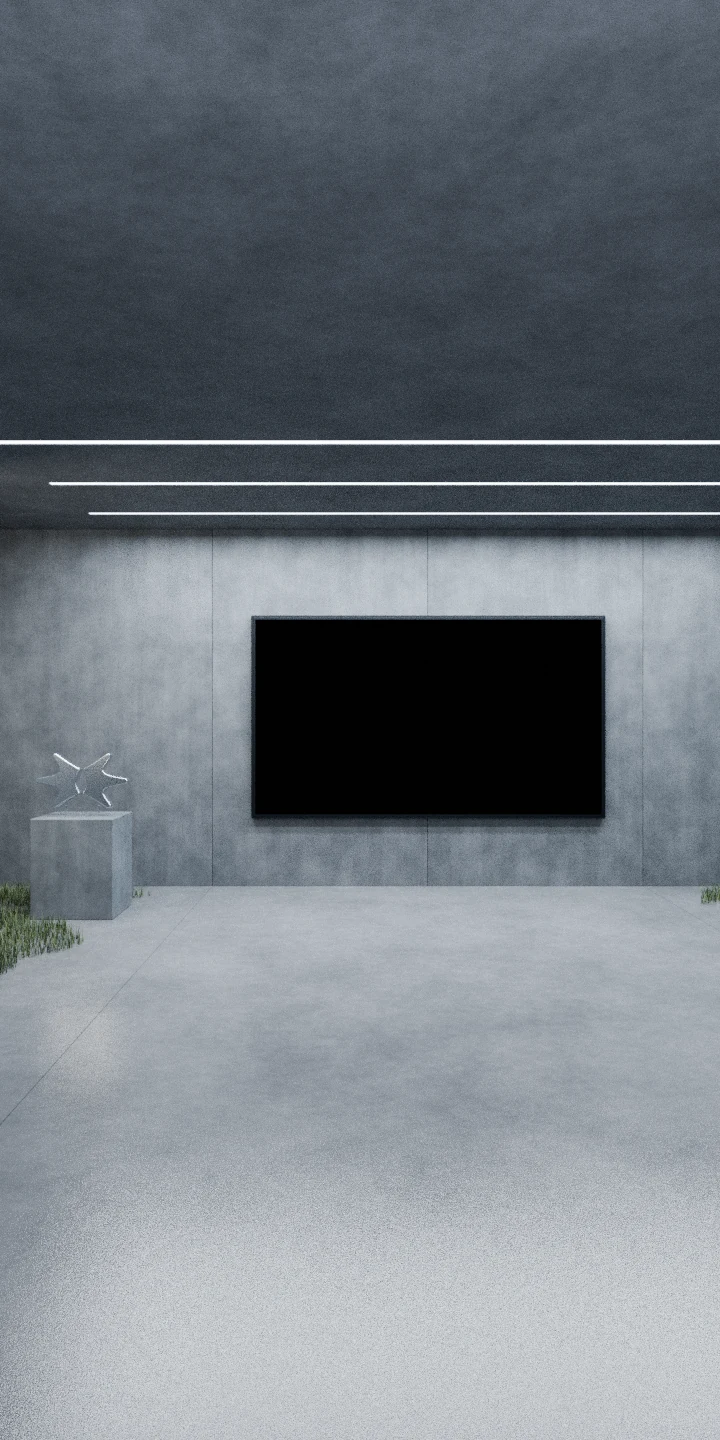
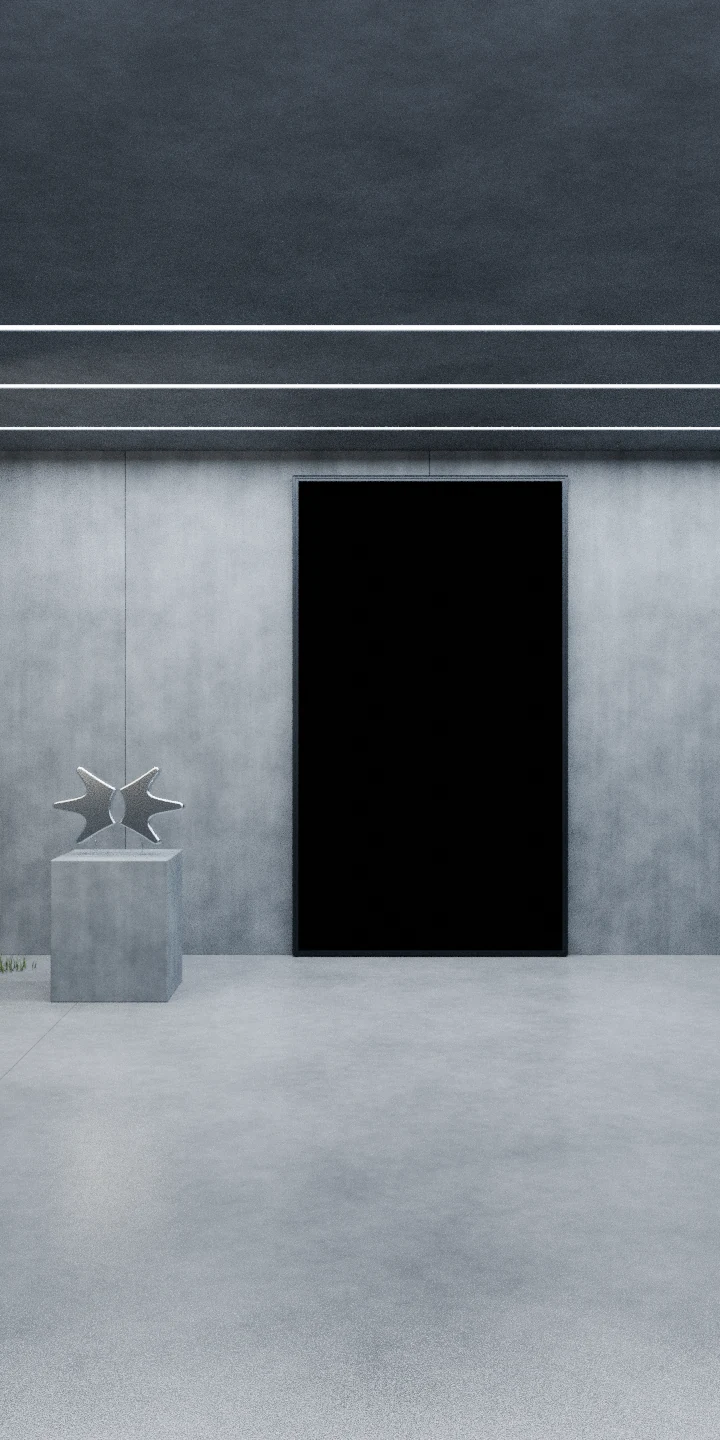
Make mobile cinema TV portrait with continuous camera pullback

diff --git a/dist/site.js b/dist/site.js
@@ -137,11 +137,11 @@ function sampleCurve(keys,p,column=1){
 function roomProgress(p){return 1-(sampleCurve(roomKeys,p)-1)/2.4}
 function room(p,w,h){
  const mobile=w<=700;
- const imageW=mobile?Math.max(w/.876,h/2):Math.max(w,h*16/9),imageH=imageW*(mobile?2:9/16);
- const screen=mobile?{x:.3547390103340149,y:.43023377656936646,w:.48074471950531006,h:.13520944118499756}:{x:.34323543310165405,y:.33822327852249146,w:.3135291337966919,h:.3135290741920471};
- const fullScale=mobile?1.02:Math.max(w/(imageW*screen.w),h/(imageH*screen.h))*1.068;
- const t=roomProgress(p);
- return {scale:lerp(fullScale,1,t),imageW,imageH,originX:mobile?.438:screen.x+screen.w/2,originY:mobile?.5:screen.y+screen.h/2,hold:p>=.72,screen};
+ const imageW=mobile?Math.max(w/.88,h/2):Math.max(w,h*16/9),imageH=imageW*(mobile?2:9/16);
+ const screen=mobile?{x:0.4144749641418457,y:0.33404088020324707,w:0.36653584241867065,h:0.32580962777137756}:{x:.34323543310165405,y:.33822327852249146,w:.3135291337966919,h:.3135290741920471};
+ const fullScale=mobile?1.8:Math.max(w/(imageW*screen.w),h/(imageH*screen.h))*1.068;
+ const t=mobile?smooth(p):roomProgress(p);
+ return {scale:lerp(fullScale,1,t),imageW,imageH,originX:mobile?lerp(screen.x+screen.w/2,.44,t):screen.x+screen.w/2,originY:mobile?.5:screen.y+screen.h/2,hold:mobile?p>=.98:p>=.72,screen};
 }
 function cards(p,index,h){const center=.5076+index*.1984;const local=(p-center)/.1984;return {x:[-15,19,-12,16][index],y:local*-h*1.3,angle:clamp(local,-1,1)*-15*(index%2?-1:1),opacity:1-clamp((Math.abs(local)-.85)/.35),scale:1-Math.min(.025,Math.abs(local)*.01)}}
 function finale(p,w,h){
@@ -192,7 +192,7 @@ function setupResponsiveMedia(){
  const mobile=matchMedia('(max-width:700px)').matches;
  $$('video[data-portrait-film],video[data-compact-film],video.green-film').forEach(video=>{
   const green=video.classList.contains('green-film');
-  const portrait=mobile&&(video.hasAttribute('data-portrait-film')||green);
+  const portrait=mobile&&(video.hasAttribute('data-portrait-film')||video.hasAttribute('data-compact-film')||green);
   const source=green?(mobile?'assets/green-portrait.mp4':'assets/green-film.mp4'):portrait?'assets/film-portrait.mp4':mobile?'assets/film-compact.mp4':'assets/film.mp4';
   if(video.dataset.source===source)return;
   video.dataset.source=source;video.poster=portrait?(green?'assets/green-portrait-poster.webp':'assets/film-portrait-poster.webp'):'assets/film-poster.webp';

diff --git a/site.js b/site.js
@@ -137,11 +137,11 @@ function sampleCurve(keys,p,column=1){
 function roomProgress(p){return 1-(sampleCurve(roomKeys,p)-1)/2.4}
 function room(p,w,h){
  const mobile=w<=700;
- const imageW=mobile?Math.max(w/.876,h/2):Math.max(w,h*16/9),imageH=imageW*(mobile?2:9/16);
- const screen=mobile?{x:.3547390103340149,y:.43023377656936646,w:.48074471950531006,h:.13520944118499756}:{x:.34323543310165405,y:.33822327852249146,w:.3135291337966919,h:.3135290741920471};
- const fullScale=mobile?1.02:Math.max(w/(imageW*screen.w),h/(imageH*screen.h))*1.068;
- const t=roomProgress(p);
- return {scale:lerp(fullScale,1,t),imageW,imageH,originX:mobile?.438:screen.x+screen.w/2,originY:mobile?.5:screen.y+screen.h/2,hold:p>=.72,screen};
+ const imageW=mobile?Math.max(w/.88,h/2):Math.max(w,h*16/9),imageH=imageW*(mobile?2:9/16);
+ const screen=mobile?{x:0.4144749641418457,y:0.33404088020324707,w:0.36653584241867065,h:0.32580962777137756}:{x:.34323543310165405,y:.33822327852249146,w:.3135291337966919,h:.3135290741920471};
+ const fullScale=mobile?1.8:Math.max(w/(imageW*screen.w),h/(imageH*screen.h))*1.068;
+ const t=mobile?smooth(p):roomProgress(p);
+ return {scale:lerp(fullScale,1,t),imageW,imageH,originX:mobile?lerp(screen.x+screen.w/2,.44,t):screen.x+screen.w/2,originY:mobile?.5:screen.y+screen.h/2,hold:mobile?p>=.98:p>=.72,screen};
 }
 function cards(p,index,h){const center=.5076+index*.1984;const local=(p-center)/.1984;return {x:[-15,19,-12,16][index],y:local*-h*1.3,angle:clamp(local,-1,1)*-15*(index%2?-1:1),opacity:1-clamp((Math.abs(local)-.85)/.35),scale:1-Math.min(.025,Math.abs(local)*.01)}}
 function finale(p,w,h){
@@ -192,7 +192,7 @@ function setupResponsiveMedia(){
  const mobile=matchMedia('(max-width:700px)').matches;
  $$('video[data-portrait-film],video[data-compact-film],video.green-film').forEach(video=>{
   const green=video.classList.contains('green-film');
-  const portrait=mobile&&(video.hasAttribute('data-portrait-film')||green);
+  const portrait=mobile&&(video.hasAttribute('data-portrait-film')||video.hasAttribute('data-compact-film')||green);
   const source=green?(mobile?'assets/green-portrait.mp4':'assets/green-film.mp4'):portrait?'assets/film-portrait.mp4':mobile?'assets/film-compact.mp4':'assets/film.mp4';
   if(video.dataset.source===source)return;
   video.dataset.source=source;video.poster=portrait?(green?'assets/green-portrait-poster.webp':'assets/film-portrait-poster.webp'):'assets/film-poster.webp';

diff --git a/motion.js b/motion.js
@@ -17,11 +17,11 @@ function sampleCurve(keys,p,column=1){
 function roomProgress(p){return 1-(sampleCurve(roomKeys,p)-1)/2.4}
 function room(p,w,h){
  const mobile=w<=700;
- const imageW=mobile?Math.max(w/.876,h/2):Math.max(w,h*16/9),imageH=imageW*(mobile?2:9/16);
- const screen=mobile?{x:.3547390103340149,y:.43023377656936646,w:.48074471950531006,h:.13520944118499756}:{x:.34323543310165405,y:.33822327852249146,w:.3135291337966919,h:.3135290741920471};
- const fullScale=mobile?1.02:Math.max(w/(imageW*screen.w),h/(imageH*screen.h))*1.068;
- const t=roomProgress(p);
- return {scale:lerp(fullScale,1,t),imageW,imageH,originX:mobile?.438:screen.x+screen.w/2,originY:mobile?.5:screen.y+screen.h/2,hold:p>=.72,screen};
+ const imageW=mobile?Math.max(w/.88,h/2):Math.max(w,h*16/9),imageH=imageW*(mobile?2:9/16);
+ const screen=mobile?{x:0.4144749641418457,y:0.33404088020324707,w:0.36653584241867065,h:0.32580962777137756}:{x:.34323543310165405,y:.33822327852249146,w:.3135291337966919,h:.3135290741920471};
+ const fullScale=mobile?1.8:Math.max(w/(imageW*screen.w),h/(imageH*screen.h))*1.068;
+ const t=mobile?smooth(p):roomProgress(p);
+ return {scale:lerp(fullScale,1,t),imageW,imageH,originX:mobile?lerp(screen.x+screen.w/2,.44,t):screen.x+screen.w/2,originY:mobile?.5:screen.y+screen.h/2,hold:mobile?p>=.98:p>=.72,screen};
 }
 function cards(p,index,h){const center=.5076+index*.1984;const local=(p-center)/.1984;return {x:[-15,19,-12,16][index],y:local*-h*1.3,angle:clamp(local,-1,1)*-15*(index%2?-1:1),opacity:1-clamp((Math.abs(local)-.85)/.35),scale:1-Math.min(.025,Math.abs(local)*.01)}}
 function finale(p,w,h){

diff --git a/dist/style.css b/dist/style.css
@@ -359,12 +359,12 @@ body{background:var(--paper)}
 
 /* Portrait camera keeps both the screen and the original DELREY sculpture in view. */
 @media(max-width:700px){
- .room-world{width:max(114.15525115vw,50svh);height:max(228.31050230vw,100svh);aspect-ratio:1/2;transform-origin:43.8% 50%;transform:translate(-43.8%,-50%)}
- .room-screen{left:35.4739010334%;top:43.0233776569%;width:48.0744719505%;height:13.5209441185%}
+ .room-world{width:max(113.63636364vw,50svh);height:max(227.27272728vw,100svh);aspect-ratio:1/2;transform-origin:44% 50%;transform:translate(-44%,-50%)}
+ .room-screen{left:41.4474964142%;top:33.4040880203%;width:36.6535842419%;height:32.5809627771%}
  .reduce-motion .room-sticky{height:100svh;top:auto}
- .reduce-motion .room-world{width:max(114.15525115vw,50svh)!important;height:max(228.31050230vw,100svh)!important;transform:translate(-43.8%,-50%)!important}
+ .reduce-motion .room-world{width:max(113.63636364vw,50svh)!important;height:max(227.27272728vw,100svh)!important;transform:translate(-44%,-50%)!important}
 }
 @media(prefers-reduced-motion:reduce) and (max-width:700px){
  .room-sticky{height:100svh;top:auto}
- .room-world{width:max(114.15525115vw,50svh)!important;height:max(228.31050230vw,100svh)!important;transform:translate(-43.8%,-50%)!important}
+ .room-world{width:max(113.63636364vw,50svh)!important;height:max(227.27272728vw,100svh)!important;transform:translate(-44%,-50%)!important}
 }

diff --git a/style.css b/style.css
@@ -359,12 +359,12 @@ body{background:var(--paper)}
 
 /* Portrait camera keeps both the screen and the original DELREY sculpture in view. */
 @media(max-width:700px){
- .room-world{width:max(114.15525115vw,50svh);height:max(228.31050230vw,100svh);aspect-ratio:1/2;transform-origin:43.8% 50%;transform:translate(-43.8%,-50%)}
- .room-screen{left:35.4739010334%;top:43.0233776569%;width:48.0744719505%;height:13.5209441185%}
+ .room-world{width:max(113.63636364vw,50svh);height:max(227.27272728vw,100svh);aspect-ratio:1/2;transform-origin:44% 50%;transform:translate(-44%,-50%)}
+ .room-screen{left:41.4474964142%;top:33.4040880203%;width:36.6535842419%;height:32.5809627771%}
  .reduce-motion .room-sticky{height:100svh;top:auto}
- .reduce-motion .room-world{width:max(114.15525115vw,50svh)!important;height:max(228.31050230vw,100svh)!important;transform:translate(-43.8%,-50%)!important}
+ .reduce-motion .room-world{width:max(113.63636364vw,50svh)!important;height:max(227.27272728vw,100svh)!important;transform:translate(-44%,-50%)!important}
 }
 @media(prefers-reduced-motion:reduce) and (max-width:700px){
  .room-sticky{height:100svh;top:auto}
- .room-world{width:max(114.15525115vw,50svh)!important;height:max(228.31050230vw,100svh)!important;transform:translate(-43.8%,-50%)!important}
+ .room-world{width:max(113.63636364vw,50svh)!important;height:max(227.27272728vw,100svh)!important;transform:translate(-44%,-50%)!important}
 }

diff --git a/app.js b/app.js
@@ -37,7 +37,7 @@ function setupResponsiveMedia(){
  const mobile=matchMedia('(max-width:700px)').matches;
  $$('video[data-portrait-film],video[data-compact-film],video.green-film').forEach(video=>{
   const green=video.classList.contains('green-film');
-  const portrait=mobile&&(video.hasAttribute('data-portrait-film')||green);
+  const portrait=mobile&&(video.hasAttribute('data-portrait-film')||video.hasAttribute('data-compact-film')||green);
   const source=green?(mobile?'assets/green-portrait.mp4':'assets/green-film.mp4'):portrait?'assets/film-portrait.mp4':mobile?'assets/film-compact.mp4':'assets/film.mp4';
   if(video.dataset.source===source)return;
   video.dataset.source=source;video.poster=portrait?(green?'assets/green-portrait-poster.webp':'assets/film-portrait-poster.webp'):'assets/film-poster.webp';

diff --git a/room-source/render_mobile.py b/room-source/render_mobile.py
@@ -5,9 +5,22 @@ from mathutils import Vector
 from bpy_extras.object_utils import world_to_camera_view
 s=bpy.context.scene
 cam=s.camera
-cam.location.x=-1.1
-cam.data.lens=46
+cam.location.x=-.8
+cam.data.lens=65
 cam.data.sensor_fit='HORIZONTAL'
+# A genuine 9:16 screen and bezel, built from the existing scene geometry.
+width=3.0;height=width*16/9;center_z=2.75
+for name,extra in [('Screen shadow housing',.14),('Screen outer brushed bezel',.075)]:
+ o=bpy.data.objects[name];o.dimensions=(width+extra,o.dimensions.y,height+extra)
+aperture=bpy.data.objects['Exact screen aperture']
+for v in aperture.data.vertices:
+ v.co.x*=width/5.56
+ v.co.z=center_z+(v.co.z-center_z)*(height/(5.56*9/16))
+# Bring the original sculpture and its plinth into the portrait composition.
+for o in s.objects:
+ if o.name.startswith(('DELREY exact supplied icon','Monolithic cast pedestal','Pedestal 12 mm','Sculpture pin')):o.location.x+=1.8
+light=bpy.data.objects.get('Warm quiet sculpture edge')
+if light:light.location.x+=1.8
 s.render.resolution_x=720
 s.render.resolution_y=1440
 s.render.resolution_percentage=100

diff --git a/checks/mobile-room-image.py b/checks/mobile-room-image.py
@@ -1,0 +1,23 @@
+"""Validate the rendered vertical bezel against the exported video aperture."""
+from pathlib import Path
+import json
+from PIL import Image
+root=Path(__file__).resolve().parents[1]
+meta=json.loads((root/'qa/mobile-room-aperture.json').read_text())
+im=Image.open(root/'assets/cinematic-room-mobile.webp').convert('RGB')
+b=meta['screen']
+x=round((b['x']+b['w']/2)*im.width)
+y=round((b['y']+b['h']/2)*im.height)
+def extent(axis):
+ pos=x if axis==0 else y
+ limit=im.width if axis==0 else im.height
+ def dark(i): return max(im.getpixel((i,y) if axis==0 else (x,i)))<65
+ left=right=pos
+ while left>0 and dark(left):left-=1
+ while right<limit-1 and dark(right):right+=1
+ return right-left
+w,h=extent(0),extent(1)
+assert b['w']*im.width-5<w<b['w']*im.width+30,'Housing must fit the vertical aperture horizontally'
+assert b['h']*im.height-5<h<b['h']*im.height+30,'Housing must fit the vertical aperture vertically'
+assert h/w>1.6,'Rendered TV housing must be portrait'
+print(json.dumps({'passed':3,'rendered_bezel_width':w,'rendered_bezel_height':h,'asset':meta['asset']}))

diff --git a/qa/REVISIONE-STANZA-MOBILE.md b/qa/REVISIONE-STANZA-MOBILE.md
@@ -1,16 +1,17 @@
-# Stanza cinema — inquadratura mobile
+# Stanza cinema — TV verticale e camera in movimento
 
-La scena mobile usa un render verticale dedicato della stessa stanza Blender: camera orizzontale a x=-1,1 m, focale 46 mm, 720×1440 px, 80 campioni Cycles. La camera desktop e il relativo asset restano invariati.
+La variante mobile usa una TV reale in formato 9:16, ricostruita nel modello Blender con apertura 3×5,333 m e cornice corrispondente. Il video è il film verticale originale DELREY; il fotogramma rimane completo. La scultura e il piedistallo originali sono ricomposti nella scena mobile. Asset, camera, video e movimento desktop restano invariati.
 
-Il televisore occupa circa il 55–56% della larghezza dello schermo nei formati verificati; la scultura originale e il piedistallo rimangono interamente visibili a sinistra. Lo zoom mobile è limitato al 2%. Il video mantiene il fotogramma completo 16:9 e il controllo audio esistente.
+Lo scorrimento mobile parte vicino al televisore, poi la camera arretra da scala 1,8 a 1 e sposta gradualmente l'inquadratura per rivelare la scultura. Il movimento è distribuito lungo tutta la scena, invece del precedente zoom quasi fermo del 2%. Lo schermo passa da circa il 75% al 42% della larghezza, mantenendo margini laterali.
 
-Il browser sceglie il render verticale tramite picture/source solo fino a 700px. Le coordinate dell'apertura video provengono dalla proiezione della camera Blender, riportata in mobile-room-aperture.json. Il file room-source/render_mobile.py permette di rigenerare immagine e metadati caricando il .blend originale fornito.
+Render dedicato: 720×1440 px, 80 campioni Cycles, focale 65 mm. Il browser lo seleziona fino a 700px tramite picture/source. Le coordinate dell'apertura sono proiettate dalla camera Blender e riportate in mobile-room-aperture.json. Per rigenerare usare room-source/render_mobile.py con il file .blend originale fornito.
 
 ## Verifiche
 
-- 3232 controlli dedicati: quattro dimensioni telefono per 101 posizioni della camera; scultura e piedistallo entro il viewport, margini del televisore, proporzione 16:9 e registrazione dell'apertura.
-- 3093 controlli esistenti passati.
+- 3 controlli pixel confermano che la cornice renderizzata segue l’apertura verticale, senza conservare la vecchia larghezza orizzontale.
+- 3284 controlli dedicati: quattro formati telefono per 101 posizioni; formato 9:16, margini del televisore, movimento continuo, nessun bordo vuoto, scultura e piedistallo completamente rivelati nella fase finale.
+- 3093 controlli esistenti passati, aggiornando le attese del film mobile al formato verticale.
 - 404 campioni della camera desktop identici alla versione precedente.
-- Chromium: 360×740, 390×844, 430×932, desktop 1180×757; nessun errore JavaScript, video completo e controllo audio funzionante.
-- Verificata anche la modalità movimento ridotto su mobile.
-- Safari e dispositivi fisici non verificati. Il sito live non è stato pubblicato da questa sessione.
+- Chromium: 360×740, 390×844, 430×932; movimento avanti e indietro reversibile, proporzioni del film, controllo audio e nessun errore JavaScript.
+- Verificati anche desktop 1180×757 e movimento ridotto su mobile. Con movimento ridotto la composizione finale resta statica.
+- Safari e dispositivi fisici non verificati. Nessuna pubblicazione sul sito live effettuata dalla sessione.
